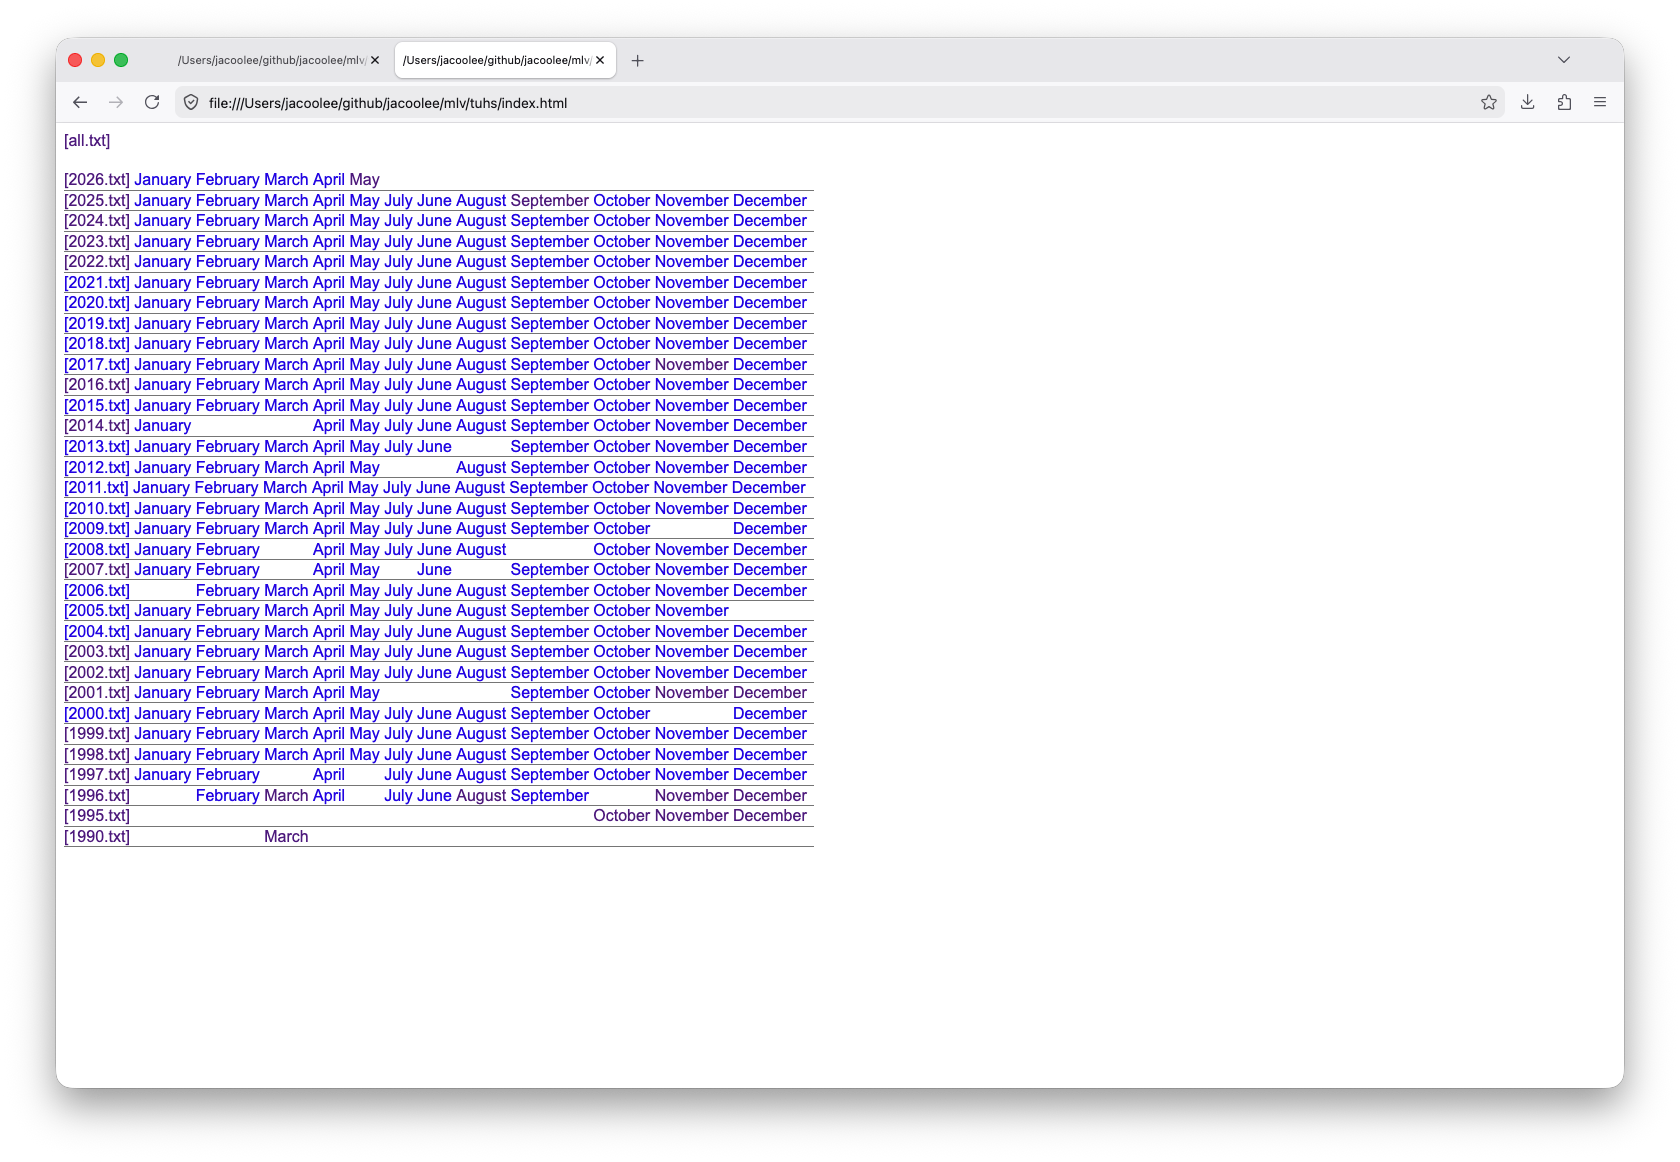
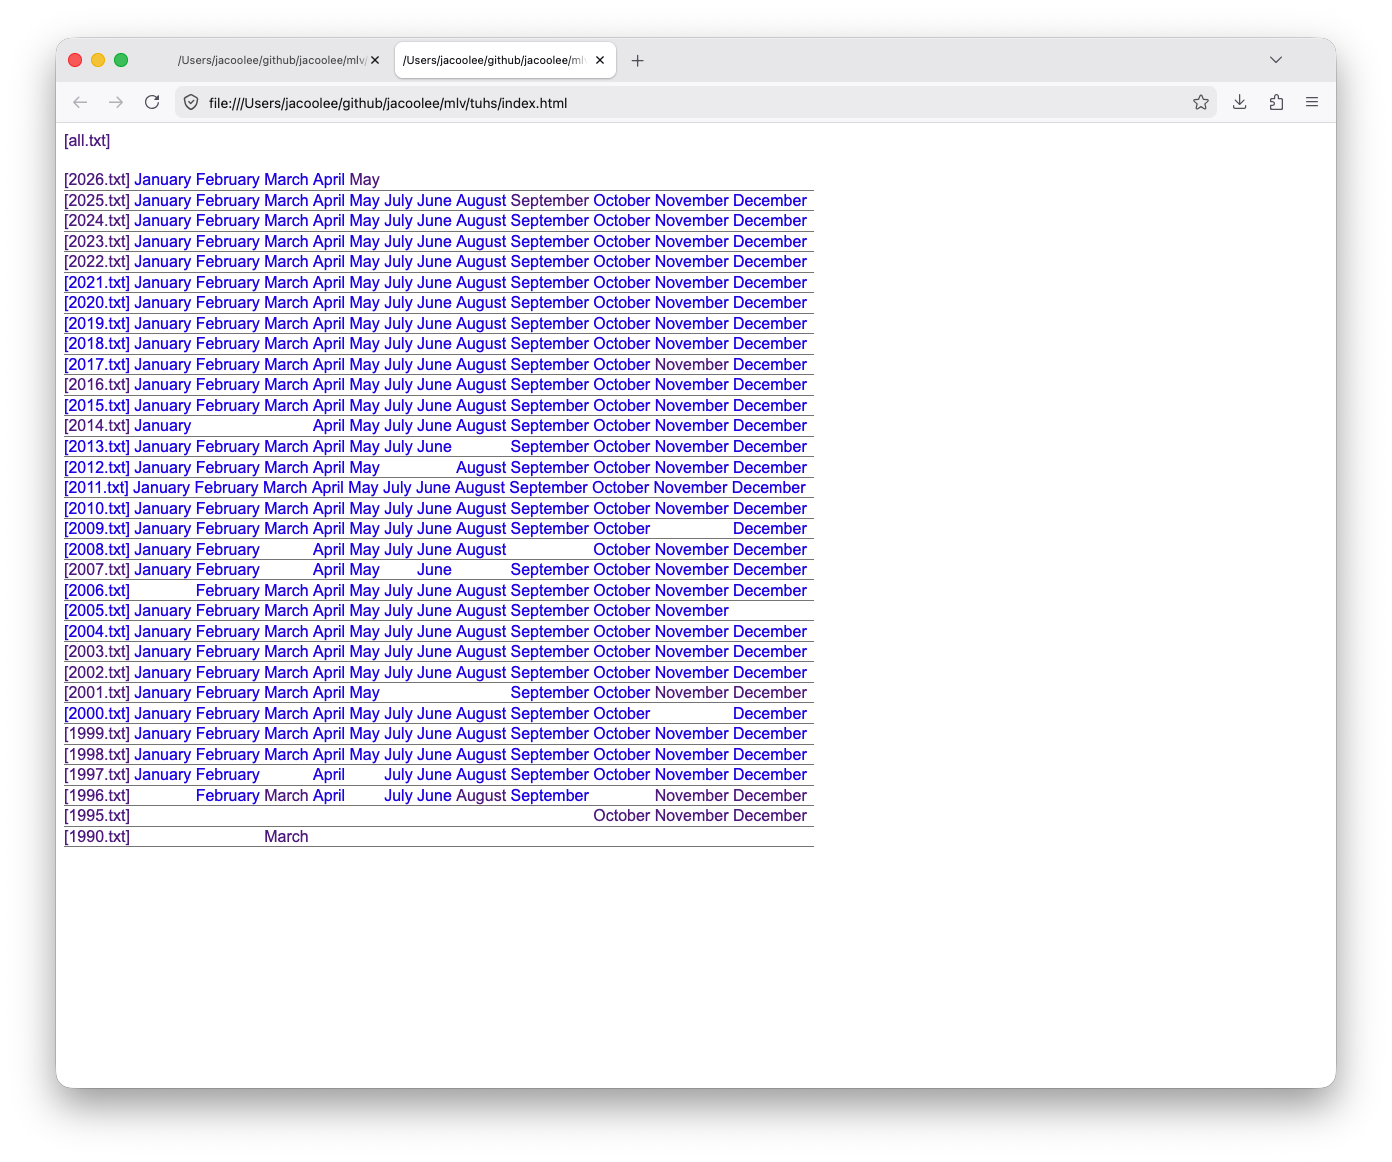
💾 store: #update.

Changed region(s): [[0.0309, 0.031, 0.5869, 0.9294], [0.9267, 0.062, 0.9885, 0.9294], [0.0927, 0.031, 0.4016, 0.0929]]

diff --git a/mlv.js b/mlv.js
@@ -423,6 +423,7 @@ function hotkeys() {
             }
             break
         }
+
         case 'm': {
             e = document.getElementById('m')
             let s = e.getAttribute('style')
@@ -433,10 +434,12 @@ function hotkeys() {
             }
             break
         }
+
         case '0': {
             showMsg(gMsgIdsRendered[0])
             break
         }
+
         case '1':
         case '2':
         case '3':
@@ -450,10 +453,61 @@ function hotkeys() {
             showMsg(msgId)
             break
         }
+
         case '9': {
             showMsg(gMsgIdsRendered[gMsgIdsRendered.length-1])
             break
         }
+
+        case 'b': {
+            e = document.getElementById('mailhead')
+            e.scrollBy({
+                top: -(e.clientHeight-20),
+                behavior: 'smooth'
+            })
+            break
+        }
+
+        case 'v': {
+            e = document.getElementById('mailhead')
+            e.scrollBy({
+                top: (e.clientHeight-20),
+                behavior: 'smooth'
+            })
+            break
+        }
+
+        case ',': {
+            e = document.getElementById(gCurHiMsgId)
+            e.scrollIntoView()
+            e = document.getElementById('mailhead')
+            e.scrollBy({
+                top: -e.clientHeight/2,
+                behavior: 'smooth', // or 'auto'
+            })
+            break
+        }
+
+        case ' ': {
+            e = document.getElementById('mailbody')
+            e.focus()
+            e.scrollBy({
+                top: (e.clientHeight-20),
+                behavior: 'smooth'
+            })
+            break
+        }
+
+        case 'u': {
+            e = document.getElementById('mailbody')
+            e.focus()
+            e.scrollBy({
+                top: -(e.clientHeight-20),
+                behavior: 'smooth'
+            })
+            break
+        }
+
         }
     })
 }
@@ -512,6 +566,14 @@ HOTKEYS
     0 - view first message
     9 - view last message
     1-8 - view message at 1..8/10 percent of all messages
+
+    b - scroll backward threads view one page
+    v - scroll forward threads view one page
+    , - center current message in threads view
+
+    Space - scroll forward message body view one page
+    u - scroll backward message body view one page
+
     c - toggle configure dialog
     m - toggle manual dialog
 

diff --git a/README.html b/README.html
@@ -31,6 +31,14 @@ HOTKEYS
     0 - view first message
     9 - view last message
     1-8 - view message at 1..8/10 percent of all messages
+
+    b - scroll backward threads view one page
+    v - scroll forward threads view one page
+    , - center current message in threads view
+
+    Space - scroll forward message body view one page
+    u - scroll backward message body view one page
+
     c - toggle configure dialog
     m - toggle manual dialog
 

diff --git a/mlv.css b/mlv.css
@@ -48,6 +48,10 @@ body {
     overflow: auto;
 }
 
+#mailbody:focus-visible {
+    outline: none;
+}
+
 .msgtree-item:first-child {
     margin-top: 10px;
 }

diff --git a/README.md b/README.md
@@ -19,6 +19,14 @@ HOTKEYS
     0 - view first message
     9 - view last message
     1-8 - view message at 1..8/10 percent of all messages
+
+    b - scroll backward threads view one page
+    v - scroll forward threads view one page
+    , - center current message in threads view
+
+    Space - scroll forward message body view one page
+    u - scroll backward message body view one page
+
     c - toggle configure dialog
     m - toggle manual dialog
 